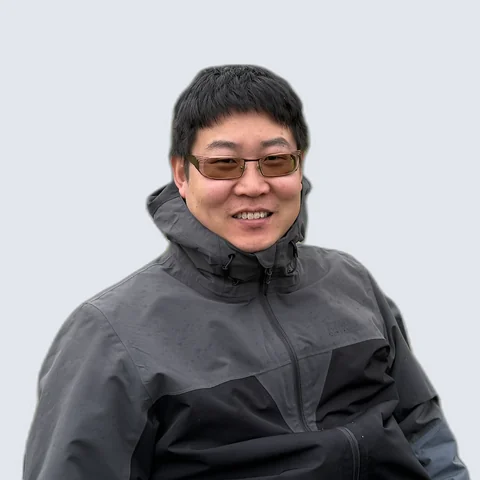
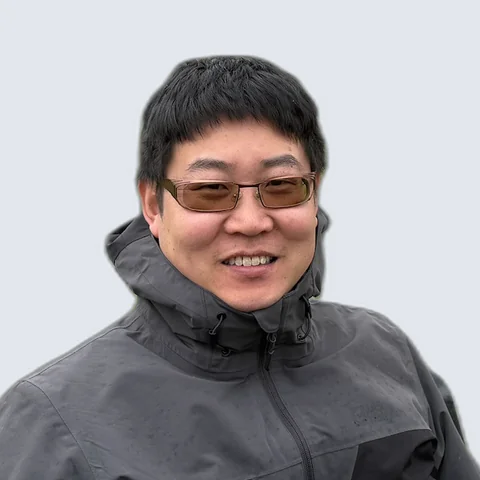
Circular shoulders-up portrait

diff --git a/index.html b/index.html
@@ -52,8 +52,8 @@
   .cta{display:flex;gap:.75rem;flex-wrap:wrap}
 
   .hero-grid{display:grid;grid-template-columns:minmax(0,1fr) auto;gap:clamp(2rem,5vw,4.5rem);align-items:center}
-  .portrait{width:clamp(220px,26vw,340px);height:auto;aspect-ratio:1;object-fit:cover;border-radius:22px;border:1px solid var(--line);box-shadow:0 18px 40px -24px rgba(24,33,44,.45);display:block}
-  @media (max-width:760px){.hero-grid{grid-template-columns:1fr}.portrait{order:-1;width:132px;border-radius:16px}}
+  .portrait{width:clamp(220px,26vw,340px);height:auto;aspect-ratio:1;object-fit:cover;border-radius:50%;border:1px solid var(--line);box-shadow:0 18px 40px -24px rgba(24,33,44,.45);display:block}
+  @media (max-width:760px){.hero-grid{grid-template-columns:1fr}.portrait{order:-1;width:132px}}
 
   /* the flow: the one memorable element */
   .flow{margin-top:clamp(3rem,6vw,4.5rem);background:var(--panel);border:1px solid var(--line);border-radius:12px;padding:clamp(1.25rem,3vw,2rem)}
